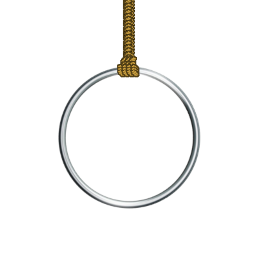
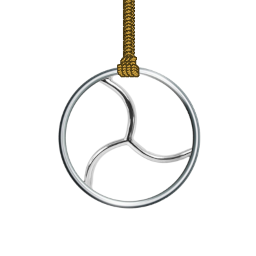
[UPDATE] Add triskell design to ring

Changed region(s): [[0.3125, 0.2812, 0.75, 0.75]]

diff --git a/src/assets/room_devices/suspension_ring/suspension_ring.asset.ts b/src/assets/room_devices/suspension_ring/suspension_ring.asset.ts
@@ -68,6 +68,23 @@ DefineRoomDeviceAsset({
 				},
 			],
 		},
+		ring_design: {
+			type: 'typed',
+			name: 'Ring Design',
+			staticConfig: { slotName: 'under_ring' },
+			variants: [
+				{
+					id: 'single',
+					name: 'Single',
+					default: true,
+				},
+				{
+					id: 'triskell',
+					name: 'Triskell',
+				},
+			],
+		},
+
 		chest_line: {
 			type: 'typed',
 			name: 'Chest Line',
@@ -312,6 +329,30 @@ DefineRoomDeviceAsset({
 			type: 'sprite',
 			image: 'rope_ring_top_end.png',
 			colorizationKey: 'rope',
+		},
+		{
+			type: 'sprite',
+			image: '',
+			colorizationKey: 'ring',
+			imageOverrides: [
+				{
+					image: 'ring_design_triskell.png',
+					condition: [
+						[
+							{
+								module: 'ring_design',
+								operator: '=',
+								value: 'triskell',
+							},
+							{
+								module: 'position',
+								operator: '=',
+								value: 'front',
+							},
+						],
+					],
+				},
+			],
 		},
 		{
 			type: 'sprite',
@@ -634,6 +675,30 @@ DefineRoomDeviceAsset({
 								module: 'chest_line',
 								operator: '=',
 								value: 'suspended',
+							},
+						],
+					],
+				},
+			],
+		},
+		{
+			type: 'sprite',
+			image: '',
+			colorizationKey: 'ring',
+			imageOverrides: [
+				{
+					image: 'ring_design_triskell.png',
+					condition: [
+						[
+							{
+								module: 'ring_design',
+								operator: '=',
+								value: 'triskell',
+							},
+							{
+								module: 'position',
+								operator: '=',
+								value: 'back',
 							},
 						],
 					],
